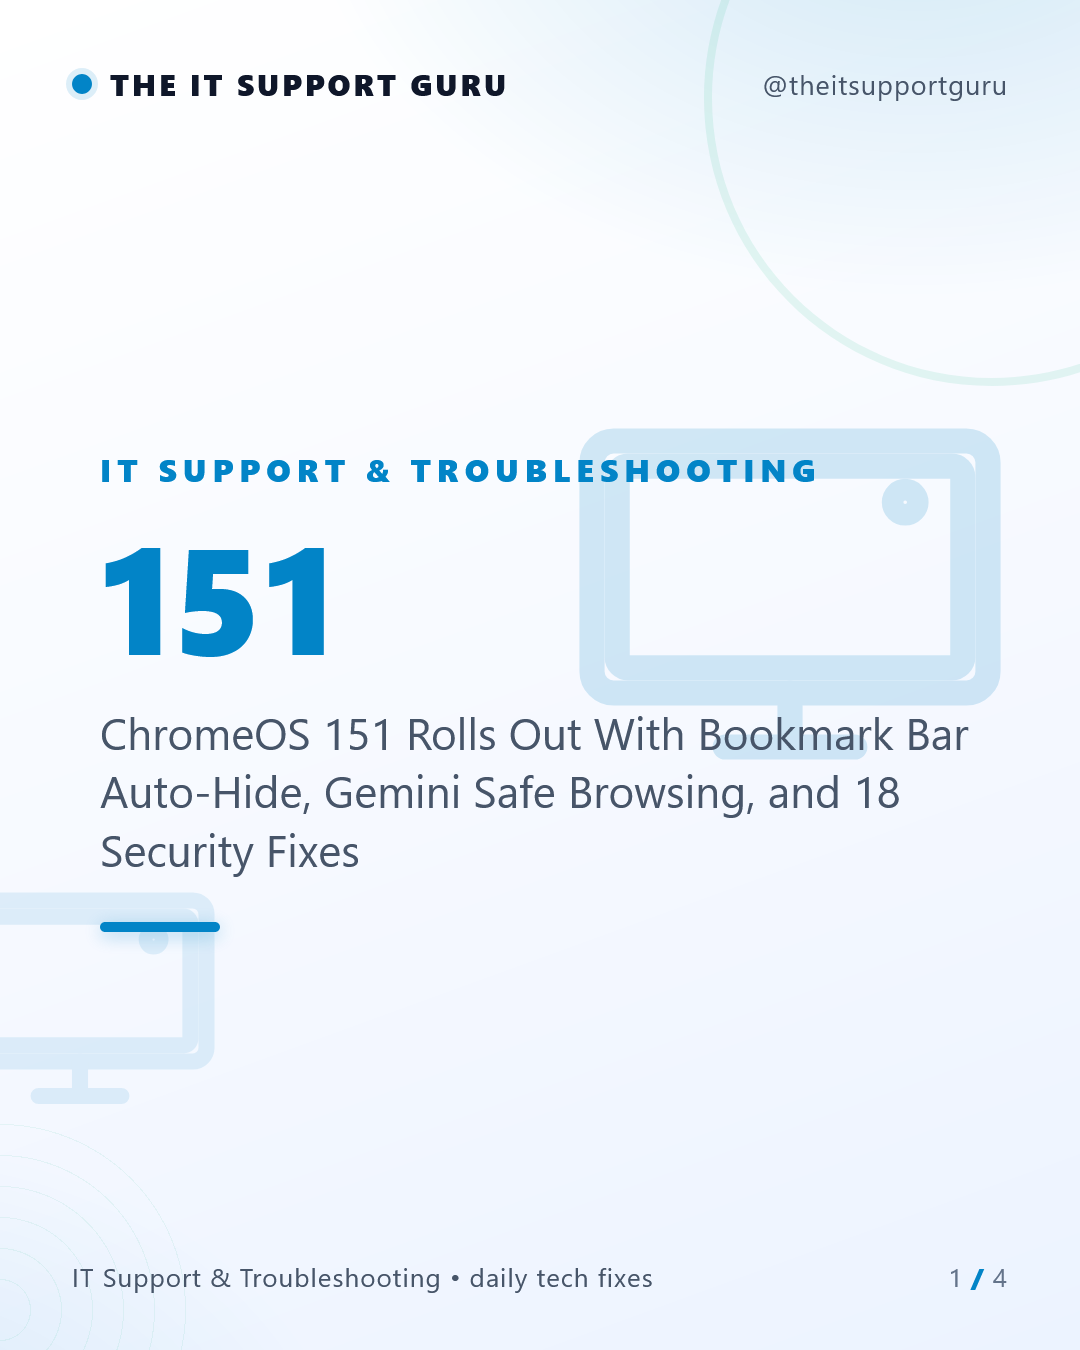
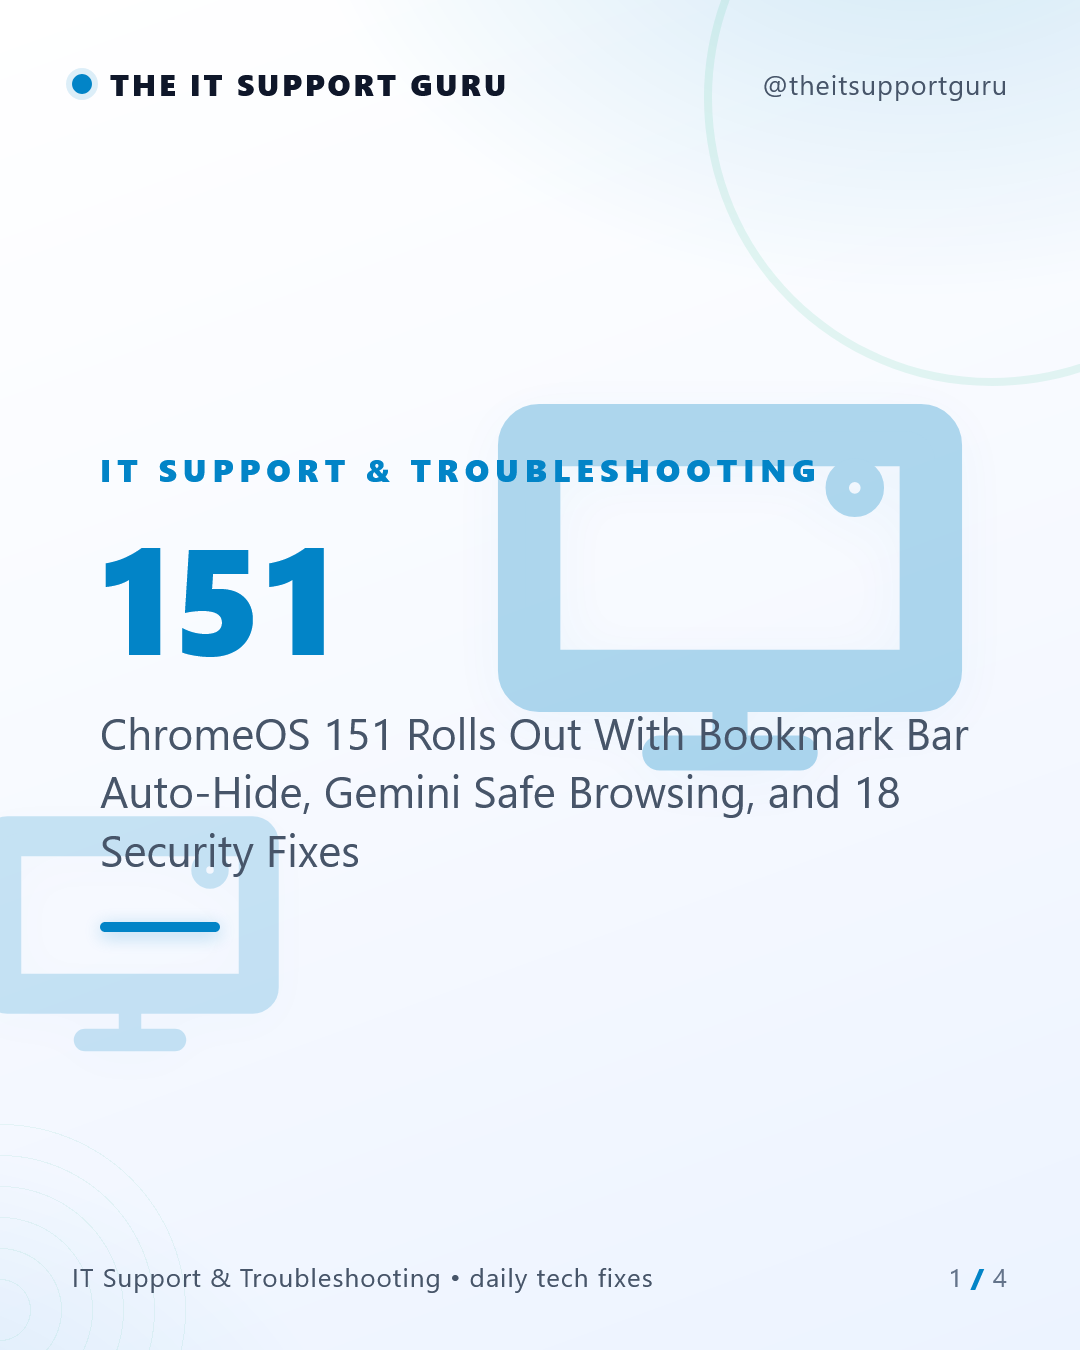
ig-render: make topic motifs prominent (thicker stroke, 2x opacity, drop shadow)

Changed region(s): [[0.4583, 0.28, 0.9472, 0.5911], [0.0, 0.5911, 0.275, 0.84]]

diff --git a/src/ig-render.js b/src/ig-render.js
@@ -19,7 +19,7 @@ function esc(s) {
 // keyword that matches the story chooses a subject motif (chip, phone, shield…)
 // plus its accent. Falls back to the niche theme when nothing matches.
 const svgWrap = (accent, inner) =>
-  `<svg viewBox="0 0 200 200" fill="none" stroke="${accent}" stroke-width="7" stroke-linecap="round" stroke-linejoin="round">${inner}</svg>`;
+  `<svg viewBox="0 0 200 200" fill="none" stroke="${accent}" stroke-width="9" stroke-linecap="round" stroke-linejoin="round">${inner}</svg>`;
 
 const TOPIC_THEMES = [
   {
@@ -212,8 +212,8 @@ export function cardHtml(post, slide, index, total) {
     position: relative;
   }
   .motif { position: absolute; inset: 0; pointer-events: none; z-index: 0; }
-  .motif svg { position: absolute; right: -70px; top: 50%; transform: translateY(-50%); width: 720px; height: 720px; opacity: .16; }
-  .motif svg.motif-2 { right: auto; left: -150px; bottom: -160px; top: auto; width: 460px; height: 460px; opacity: .10; }
+  .motif svg { position: absolute; right: -40px; top: 50%; transform: translateY(-50%); width: 780px; height: 780px; opacity: .30; filter: drop-shadow(0 12px 30px ${accent}22); }
+  .motif svg.motif-2 { right: auto; left: -120px; bottom: -140px; top: auto; width: 500px; height: 500px; opacity: .20; filter: drop-shadow(0 10px 24px ${accent}1a); }
   .motif::before, .motif::after { content: ""; position: absolute; border-radius: 50%; }
   .motif::before { width: 560px; height: 560px; right: -200px; top: -190px; border: 88px solid ${accent}0d; }
   .motif::after { width: 460px; height: 460px; left: -190px; bottom: -150px; border: 64px solid ${accent}0a; }
